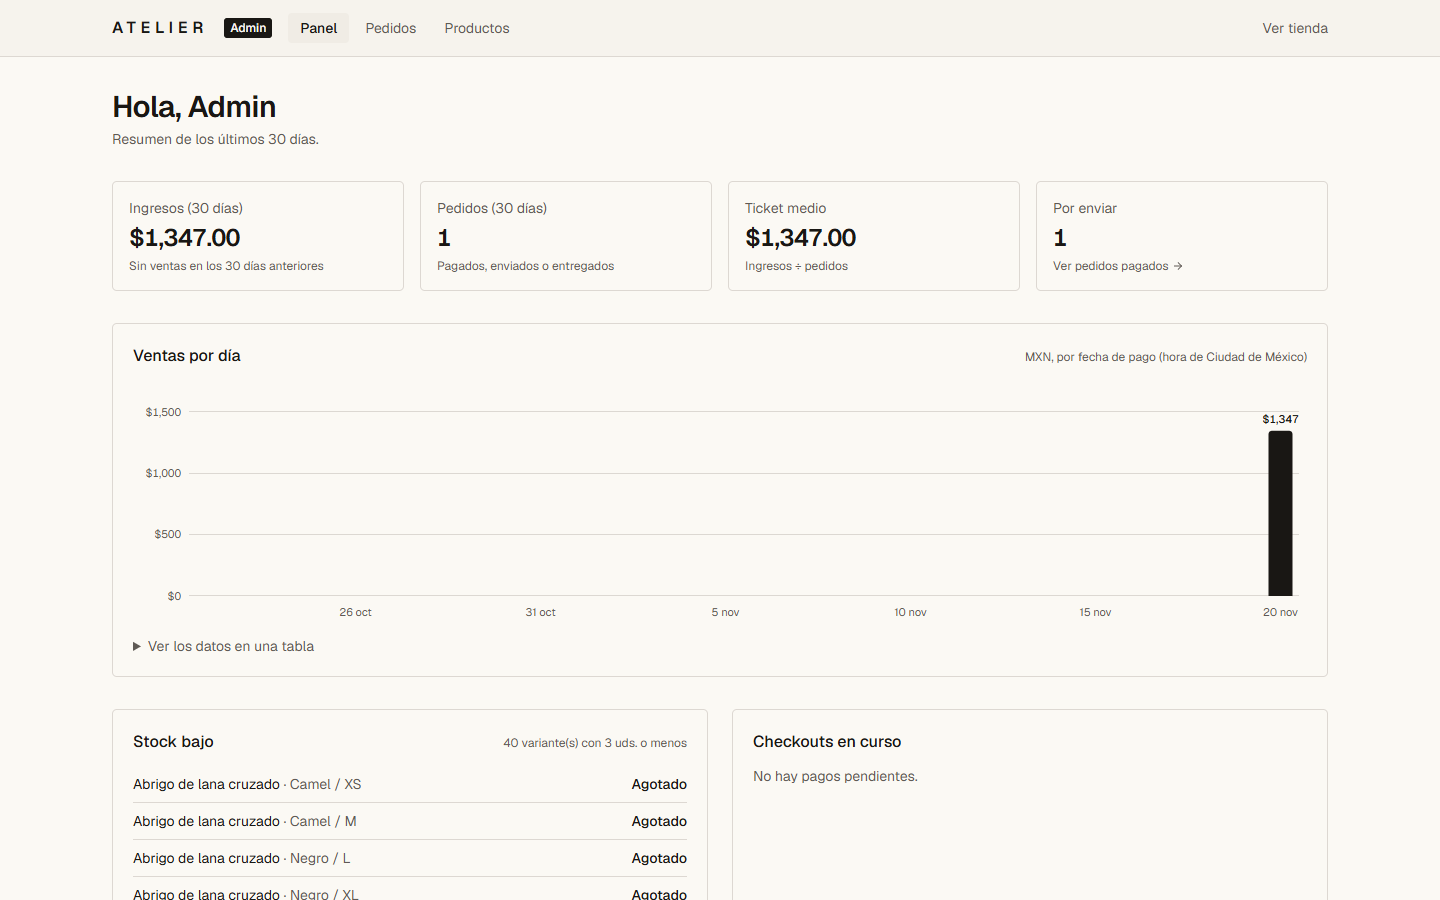
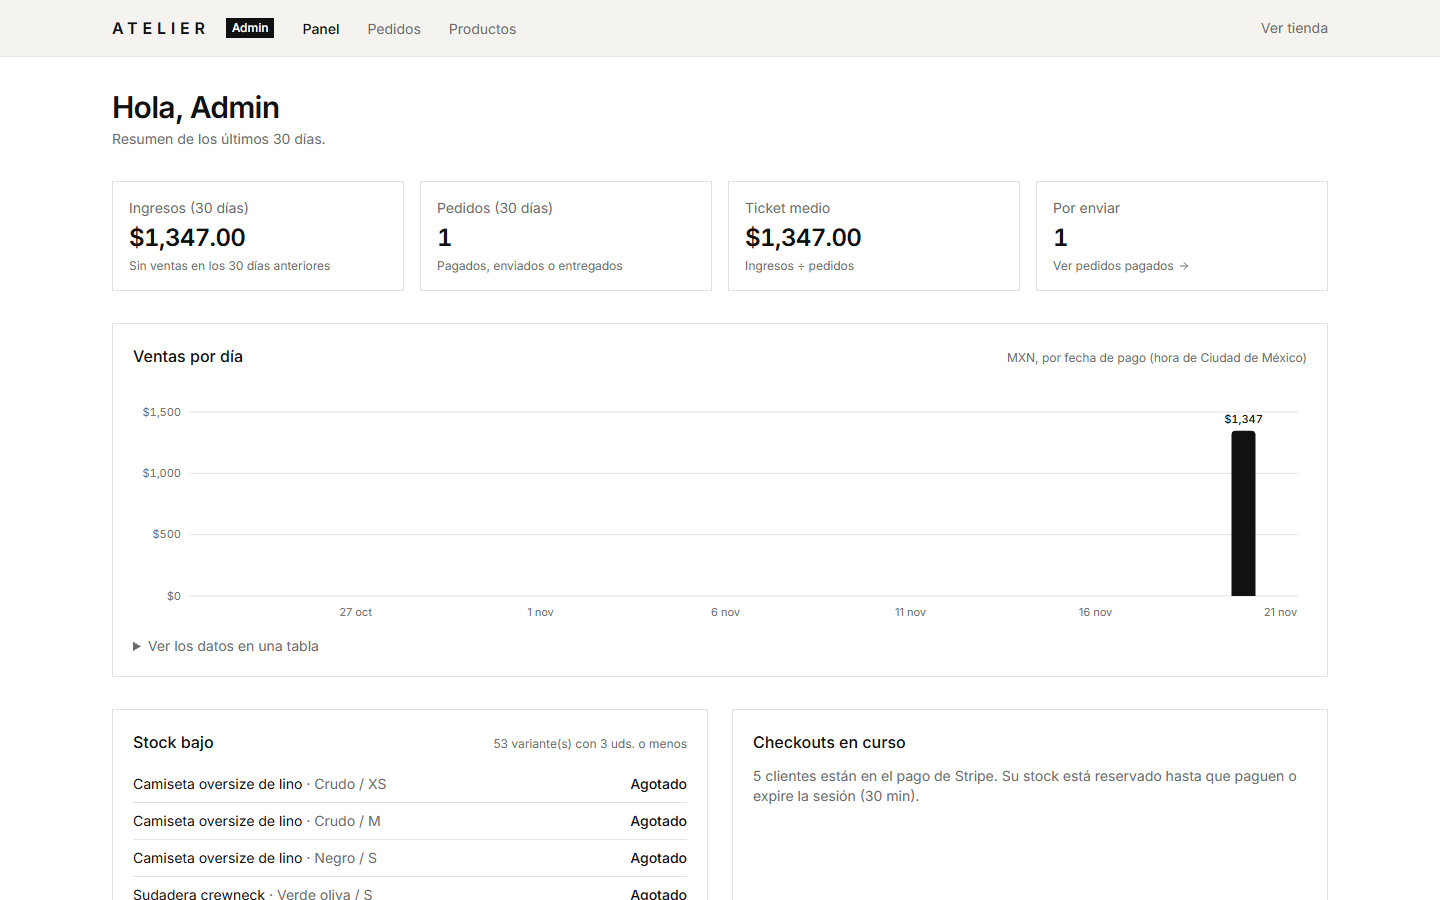
feat: Stripe checkout with stock reservation, idempotent webhook and expiry cron

diff --git a/src/lib/auth/options.test.ts b/src/lib/auth/options.test.ts
@@ -1,0 +1,37 @@
+import { betterAuth } from "better-auth";
+import { memoryAdapter } from "better-auth/adapters/memory";
+import { describe, expect, it } from "vitest";
+
+import { authOptions } from "./options";
+
+const BASE_URL = "http://localhost:3000";
+
+const auth = betterAuth({
+  ...authOptions,
+  baseURL: BASE_URL,
+  secret: "test-secret-test-secret-test-secret",
+  database: memoryAdapter({}),
+});
+
+const post = (path: string) =>
+  auth.handler(
+    new Request(`${BASE_URL}/api/auth${path}`, {
+      method: "POST",
+      headers: { "content-type": "application/json", origin: BASE_URL },
+      body: "{}",
+    }),
+  );
+
+describe("authOptions", () => {
+  it.each(authOptions.disabledPaths)(
+    "desactiva %s (la cuenta demo es compartida)",
+    async (path) => {
+      expect((await post(path)).status).toBe(404);
+    },
+  );
+
+  it("mantiene el inicio de sesión con correo", async () => {
+    // Credenciales inválidas → 400/401, nunca 404.
+    expect((await post("/sign-in/email")).status).not.toBe(404);
+  });
+});

diff --git a/src/lib/auth/options.ts b/src/lib/auth/options.ts
@@ -14,6 +14,18 @@ export const authOptions = {
     enabled: true,
     minPasswordLength: 8,
   },
+  // La tienda no ofrece editar la cuenta y la demo publica una cuenta de
+  // cliente compartida: sin estos endpoints nadie puede cambiarle la
+  // contraseña, el correo o el nombre ni cerrar las sesiones de los demás.
+  disabledPaths: [
+    "/change-password",
+    "/change-email",
+    "/update-user",
+    "/delete-user",
+    "/revoke-sessions",
+    "/revoke-other-sessions",
+    "/unlink-account",
+  ],
   plugins: [admin({ defaultRole: USER_ROLE, adminRoles: [ADMIN_ROLE] })],
 } satisfies Partial<BetterAuthOptions>;
 

diff --git a/prisma/seed.ts b/prisma/seed.ts
@@ -128,6 +128,11 @@ async function retireStaleCatalog() {
   const seedSlugs = PRODUCTS.map((product) => product.slug);
   const stale = { slug: { notIn: seedSlugs } };
 
+  // Sus SVG provisionales ya no existen en public/seed: sin imagen, el admin
+  // muestra el marcador en lugar de una imagen rota.
+  await prisma.productImage.deleteMany({
+    where: { publicId: { startsWith: "seed/" }, product: stale },
+  });
   const { count: deleted } = await prisma.product.deleteMany({
     where: { ...stale, variants: { none: { orderItems: { some: {} } } } },
   });

diff --git a/README.md b/README.md
@@ -1,10 +1,10 @@
-# ATELIER
+# ATELIER
 
 Tienda de moda contemporánea, de punta a punta: catálogo con filtros, carrito, pago con Stripe, panel de administración con subida de fotos a Cloudinary, gestión de pedidos y métricas de ventas.
 
 El reto técnico central es **no vender nunca más unidades de las que hay**, aunque varias personas compren la última unidad a la vez. Está resuelto con una reserva de stock atómica en PostgreSQL y lo demuestra un test con 20 compras simultáneas.
 
-**Demo:** _pendiente de despliegue_ · **Pago de prueba:** tarjeta `4242 4242 4242 4242`, cualquier fecha futura y cualquier CVC (Stripe en modo test: no se cobra nada).
+**Demo:** [atelier-bay-gamma.vercel.app](https://atelier-bay-gamma.vercel.app) · **Cuenta de cliente:** `cliente@example.com` / `atelier-demo-2026` · **Pago de prueba:** tarjeta `4242 4242 4242 4242`, cualquier fecha futura y cualquier CVC (Stripe en modo test: no se cobra nada).
 
 ![Inicio de la tienda](docs/screenshots/home.png)
 
@@ -159,24 +159,26 @@ erDiagram
 
 ## Calidad
 
-| Página (build de producción) | Rendimiento móvil | Rendimiento escritorio | Accesibilidad | Buenas prácticas | SEO |
-| ---------------------------- | :---------------: | :--------------------: | :-----------: | :--------------: | :-: |
-| Inicio                       |        93         |          100           |      100      |       100        | 100 |
-| Catálogo                     |        91         |          100           |      100      |       100        | 92* |
-| Ficha de producto            |        92         |          100           |      100      |       100        | 100 |
+| Página (demo en Vercel) | Rendimiento móvil | Rendimiento escritorio | Accesibilidad | Buenas prácticas | SEO |
+| ----------------------- | :---------------: | :--------------------: | :-----------: | :--------------: | :-: |
+| Inicio                  |        97         |          100           |      100      |       100        | 100 |
+| Catálogo                |        97         |          100           |      100      |       100        | 92* |
+| Ficha de producto       |        97         |          100           |      100      |       100        | 100 |
 
-Lighthouse 13, mediana de 5 ejecuciones en móvil. \*En el catálogo los metadatos dependen de la URL y Next 16 los envía en streaming a los navegadores; los rastreadores que no ejecutan JavaScript (Bing, redes sociales) los reciben en el `<head>`.
+Lighthouse 13 contra la demo publicada, mediana de 5 ejecuciones en móvil. \*En el catálogo los metadatos dependen de la URL y Next 16 los envía en streaming a los navegadores; los rastreadores que no ejecutan JavaScript (Bing, redes sociales) los reciben en el `<head>`.
 
-- **Tests:** 219 unitarios y de componentes (Vitest) y 17 de integración contra PostgreSQL real en Docker: concurrencia de stock, webhook duplicado y concurrente, expiración y cron.
+- **Tests:** 227 unitarios y de componentes (Vitest) y 17 de integración contra PostgreSQL real en Docker: concurrencia de stock, webhook duplicado y concurrente, expiración y cron.
 - **Accesibilidad:** auditoría con axe-core (WCAG 2.1 AA) de 36 páginas y estados, incluido el panel, en escritorio y móvil: 0 infracciones. Navegación completa con teclado, foco visible y devuelto al cerrar diálogos, y estados nunca indicados solo con color.
 - **Rendimiento:** el JavaScript inicial se redujo al sacar Zod del cliente y cargar los diálogos (búsqueda, menú, carrito) bajo demanda; las imágenes candidatas a LCP se piden con prioridad alta. Se probó `inlineCss` y se descartó porque empeoraba el primer pintado.
 - **SEO:** metadatos y Open Graph por página, datos estructurados `Product` y `WebSite`, `sitemap.xml`, `robots.txt`, y `noindex` en búsquedas y combinaciones de filtros.
 
 ## Credenciales de prueba
 
-| Rol     | Correo                   | Contraseña               |
-| ------- | ------------------------ | ------------------------ |
-| Cliente | _se publica con la demo_ | _se publica con la demo_ |
+| Rol     | Correo                | Contraseña          |
+| ------- | --------------------- | ------------------- |
+| Cliente | `cliente@example.com` | `atelier-demo-2026` |
+
+La cuenta es compartida: puedes comprar con la tarjeta de prueba y ver tus pedidos en «Mi cuenta». Los endpoints de Better Auth que editan la cuenta (contraseña, correo, nombre, borrado y cierre de las sesiones de otros) están desactivados para que nadie la bloquee.
 
 El panel de administración no tiene cuenta pública, para que nadie pueda borrar el catálogo ni subir imágenes a la demo. Puedes verlo en las capturas del inicio de este README y en el código de `src/app/admin`.
 
